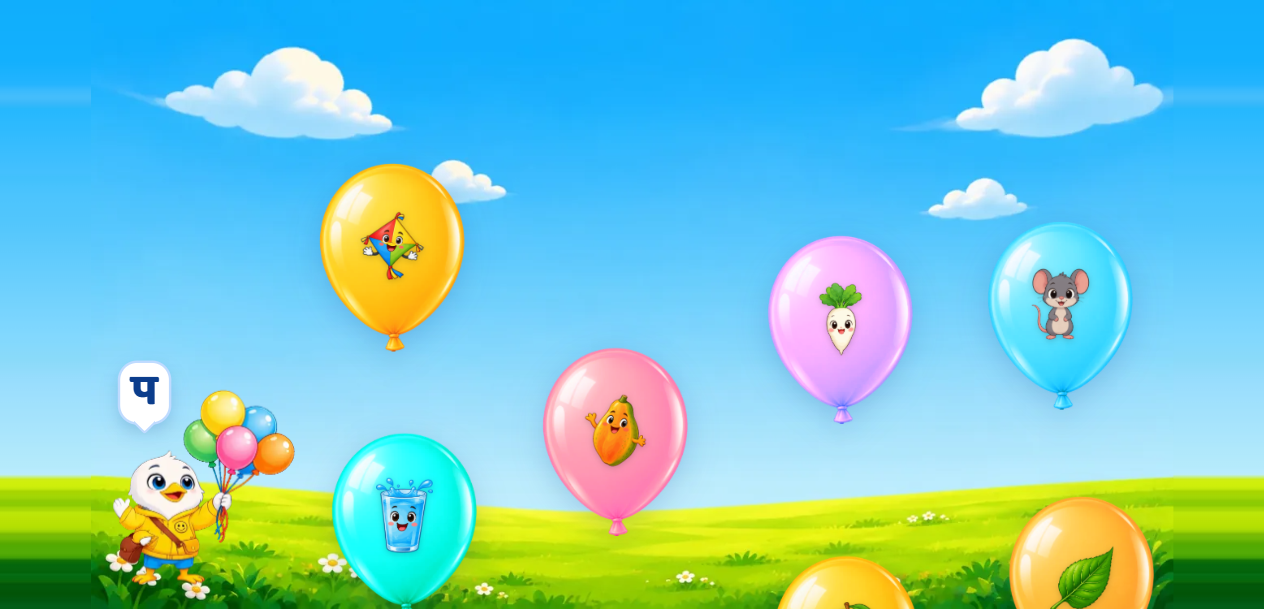
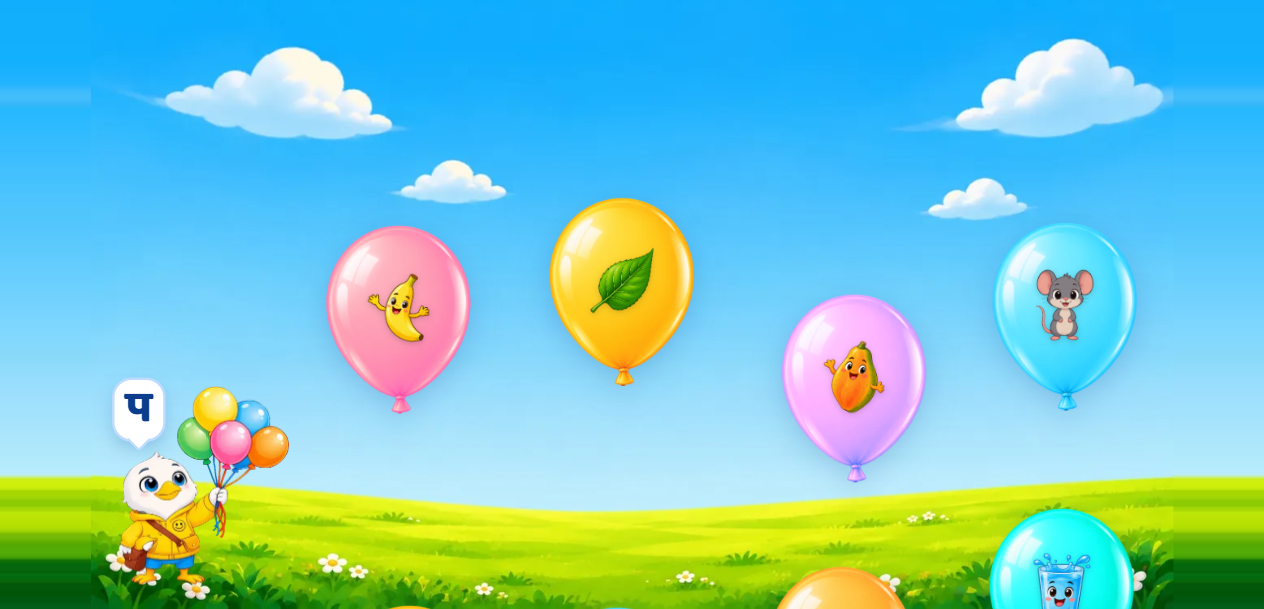
r8t: the bubble sits just above her head, measured off the artwork
SME: "bring the speech bubble just above Swifty's head but don't touch the balloons which Swift is
holding." Two constraints pulling opposite ways - her head and the bunch are side by side - so this
was placed off the ART rather than nudged by eye again.

A percentage grid over swifty_with_balloons.webp gives the three numbers that matter: her head spans
8-46% of the 248px box, its crown sits at 30% of the height, and the balloon bunch begins at 33%
across. The bubble measures 26.6% of the box wide, so centring it on her head at 27% would put its
right edge at 40% - a long way into the bunch. At 18% the right edge lands at 31.2%, which clears
the balloons and still sits over the left of her head.

Vertically it is now anchored by `bottom:72%` to her crown rather than by `top` to the box. r8s used
top:-30px, which floated it some 40px clear of her head - "above Swifty" but not "just above". With
the anchor at her crown the tail stays put however tall the bubble turns out to be, so a two-letter
target later would not drift off her.

Measured in the game: right edge 31.2% against balloons at 33%, bottom 28.0% against a crown at 30%.
Both clear, neither by much, which is what was asked for.

dist 10,432,273 B = 9.949 MB, 53,487 free.

diff --git a/balloon_game_standalone/index.html b/balloon_game_standalone/index.html
@@ -3133,7 +3133,14 @@ body.vo-lock .sg-vo{ pointer-events:none !important; opacity:.45; filter:graysca
      moves further left, to sit above her shoulder rather than between them. The padding comes in
      with it: at 22px of side padding a single akshara was carrying a lot of empty bubble, which is
      what made it wide enough to reach the balloons in the first place. */
-  position:absolute; left:21%; top:-30px; transform:translateX(-50%) scale(.6);
+  /* Placed off the ART, measured on a grid overlay of swifty_with_balloons: her head spans 8-46%
+     of the 248px box with its crown at about 30% of the height, and the balloon bunch starts at 33%
+     across. The bubble measures 26.6% of the box wide, so centring it on her head at 27% would put
+     its right edge at 40% - well into the bunch. Centred at 18% the right edge lands at ~31%, which
+     clears the balloons with a little to spare while still sitting over the left of her head.
+     `bottom` is pinned to her crown rather than `top` to the box, so the tail stays just above her
+     head however tall the bubble turns out to be - measured at 28% against a crown at 30%. */
+  position:absolute; left:18%; bottom:72%; transform:translateX(-50%) scale(.6);
   min-width:0; padding:4px 14px 7px; box-sizing:border-box;
   background:#fff; border:3px solid #BFDBFF; border-radius:24px;
   box-shadow:0 10px 20px rgba(11,61,140,.18);

diff --git a/build/HI02H11_L01_S01.html b/build/HI02H11_L01_S01.html
@@ -3133,7 +3133,14 @@ body.vo-lock .sg-vo{ pointer-events:none !important; opacity:.45; filter:graysca
      moves further left, to sit above her shoulder rather than between them. The padding comes in
      with it: at 22px of side padding a single akshara was carrying a lot of empty bubble, which is
      what made it wide enough to reach the balloons in the first place. */
-  position:absolute; left:21%; top:-30px; transform:translateX(-50%) scale(.6);
+  /* Placed off the ART, measured on a grid overlay of swifty_with_balloons: her head spans 8-46%
+     of the 248px box with its crown at about 30% of the height, and the balloon bunch starts at 33%
+     across. The bubble measures 26.6% of the box wide, so centring it on her head at 27% would put
+     its right edge at 40% - well into the bunch. Centred at 18% the right edge lands at ~31%, which
+     clears the balloons with a little to spare while still sitting over the left of her head.
+     `bottom` is pinned to her crown rather than `top` to the box, so the tail stays just above her
+     head however tall the bubble turns out to be - measured at 28% against a crown at 30%. */
+  position:absolute; left:18%; bottom:72%; transform:translateX(-50%) scale(.6);
   min-width:0; padding:4px 14px 7px; box-sizing:border-box;
   background:#fff; border:3px solid #BFDBFF; border-radius:24px;
   box-shadow:0 10px 20px rgba(11,61,140,.18);

diff --git a/dist/HI02H11_L01_S01.html b/dist/HI02H11_L01_S01.html
@@ -3133,7 +3133,14 @@ body.vo-lock .sg-vo{ pointer-events:none !important; opacity:.45; filter:graysca
      moves further left, to sit above her shoulder rather than between them. The padding comes in
      with it: at 22px of side padding a single akshara was carrying a lot of empty bubble, which is
      what made it wide enough to reach the balloons in the first place. */
-  position:absolute; left:21%; top:-30px; transform:translateX(-50%) scale(.6);
+  /* Placed off the ART, measured on a grid overlay of swifty_with_balloons: her head spans 8-46%
+     of the 248px box with its crown at about 30% of the height, and the balloon bunch starts at 33%
+     across. The bubble measures 26.6% of the box wide, so centring it on her head at 27% would put
+     its right edge at 40% - well into the bunch. Centred at 18% the right edge lands at ~31%, which
+     clears the balloons with a little to spare while still sitting over the left of her head.
+     `bottom` is pinned to her crown rather than `top` to the box, so the tail stays just above her
+     head however tall the bubble turns out to be - measured at 28% against a crown at 30%. */
+  position:absolute; left:18%; bottom:72%; transform:translateX(-50%) scale(.6);
   min-width:0; padding:4px 14px 7px; box-sizing:border-box;
   background:#fff; border:3px solid #BFDBFF; border-radius:24px;
   box-shadow:0 10px 20px rgba(11,61,140,.18);

diff --git a/engine_local/style.css b/engine_local/style.css
@@ -3122,7 +3122,14 @@ body.vo-lock .sg-vo{ pointer-events:none !important; opacity:.45; filter:graysca
      moves further left, to sit above her shoulder rather than between them. The padding comes in
      with it: at 22px of side padding a single akshara was carrying a lot of empty bubble, which is
      what made it wide enough to reach the balloons in the first place. */
-  position:absolute; left:21%; top:-30px; transform:translateX(-50%) scale(.6);
+  /* Placed off the ART, measured on a grid overlay of swifty_with_balloons: her head spans 8-46%
+     of the 248px box with its crown at about 30% of the height, and the balloon bunch starts at 33%
+     across. The bubble measures 26.6% of the box wide, so centring it on her head at 27% would put
+     its right edge at 40% - well into the bunch. Centred at 18% the right edge lands at ~31%, which
+     clears the balloons with a little to spare while still sitting over the left of her head.
+     `bottom` is pinned to her crown rather than `top` to the box, so the tail stays just above her
+     head however tall the bubble turns out to be - measured at 28% against a crown at 30%. */
+  position:absolute; left:18%; bottom:72%; transform:translateX(-50%) scale(.6);
   min-width:0; padding:4px 14px 7px; box-sizing:border-box;
   background:#fff; border:3px solid #BFDBFF; border-radius:24px;
   box-shadow:0 10px 20px rgba(11,61,140,.18);
